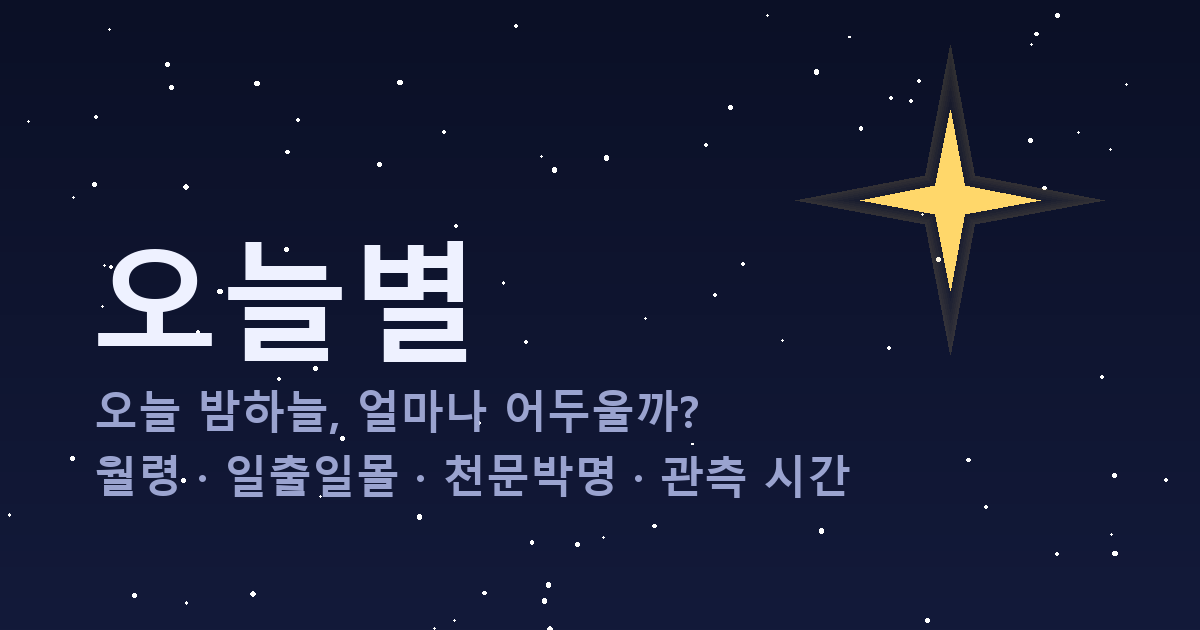
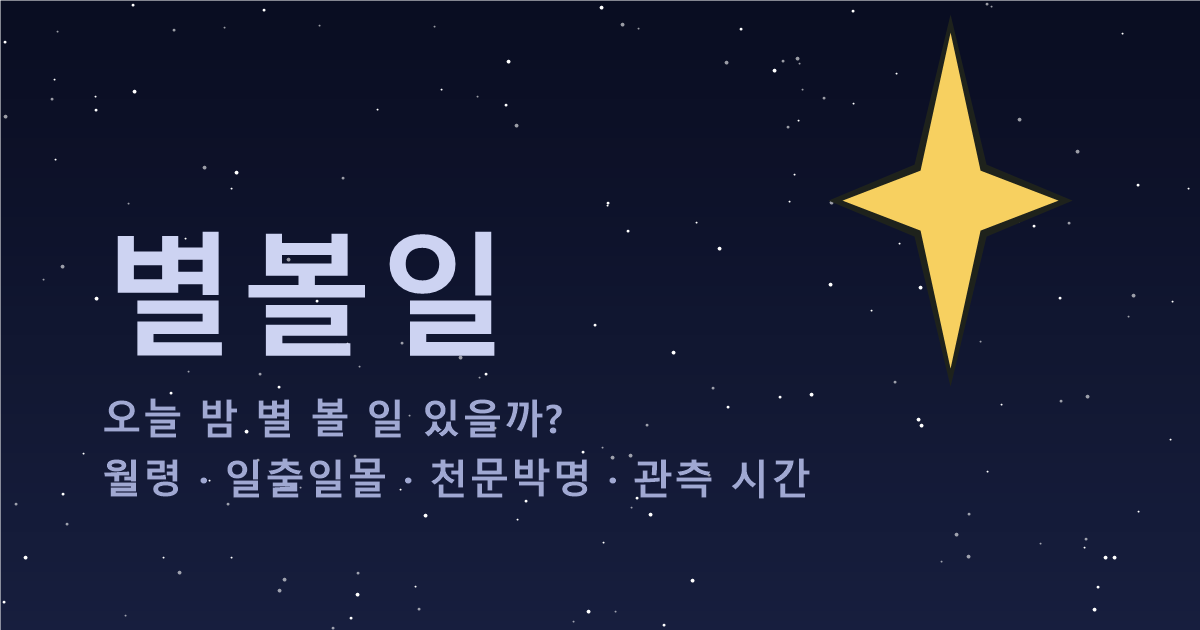
앱 이름 별볼일로 변경 (제목·헤더·manifest·OG 이미지), 플레이스토어 TWA용 assetlinks 추가

diff --git a/index.html b/index.html
@@ -3,10 +3,10 @@
 <head>
 <meta charset="UTF-8">
 <meta name="viewport" content="width=device-width, initial-scale=1.0, viewport-fit=cover">
-<title>오늘별 — 오늘 밤하늘 관측 정보</title>
+<title>별볼일 — 오늘 밤 별 볼 일 있을까</title>
 <meta name="description" content="내 위치의 월령, 일출·일몰, 천문박명, 오늘 밤 관측 시간을 한눈에.">
-<meta property="og:title" content="오늘별">
-<meta property="og:description" content="오늘 밤하늘, 얼마나 어두울까? 월령·일출일몰·천문박명을 한눈에.">
+<meta property="og:title" content="별볼일">
+<meta property="og:description" content="오늘 밤 별 볼 일 있을까? 월령·일출일몰·천문박명을 한눈에.">
 <meta property="og:image" content="https://todaystar-kr.vercel.app/og.png">
 <meta property="og:type" content="website">
 <meta name="theme-color" content="#0b1026">
@@ -20,7 +20,7 @@
 
 <header class="topbar">
   <div class="brand">
-    <span class="brand-star">✦</span> 오늘별
+    <span class="brand-star">✦</span> 별볼일
   </div>
   <div class="topbar-right">
     <button id="btn-red" class="red-toggle" title="적색 모드 (암적응 보호)">🔴</button>
